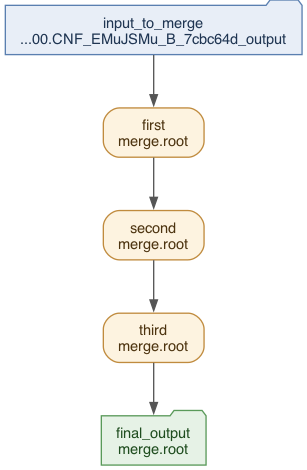
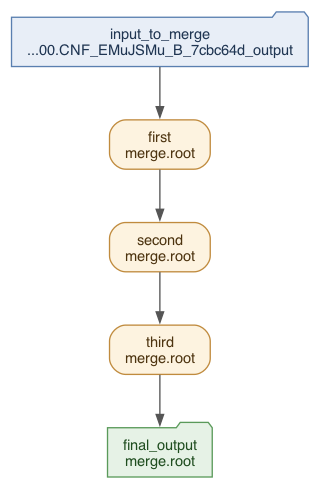
improve native workflow images

Changed region(s): [[0.0, 0.0, 0.9967, 1.0]]

diff --git a/docs/source/client/native_workflow/wfd2dot.py b/docs/source/client/native_workflow/wfd2dot.py
@@ -405,7 +405,9 @@ def build_dot(path):
     writer.open(f"digraph {quote(name)}")
     writer.line("compound=true;")
     writer.line("rankdir=TB;")
-    writer.line('graph [fontname="Helvetica", bgcolor="transparent", nodesep=0.35, ranksep=0.55];')
+    # pad: the folder shape draws its tab above the node box, which the drawing's bounding
+    # box does not account for, so without extra room the top row is clipped
+    writer.line('graph [fontname="Helvetica", bgcolor="transparent", nodesep=0.35, ranksep=0.55, pad="0.12,0.18"];')
     writer.line('node [fontname="Helvetica", fontsize=11, margin="0.16,0.09"];')
     writer.line('edge [fontname="Helvetica", fontsize=9, color="#555555", arrowsize=0.8];')
     writer.line()
